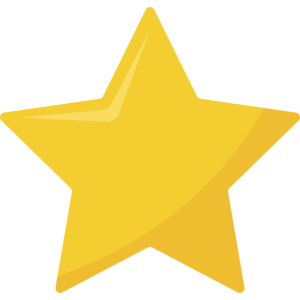
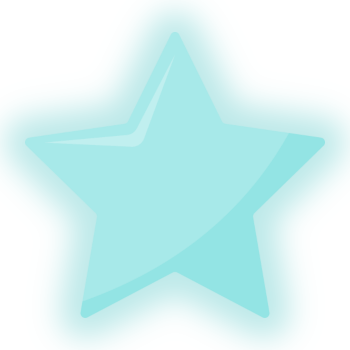
star particles effect

diff --git a/src/Game/js/objects/BigYarnBall/BigYarnBall.js b/src/Game/js/objects/BigYarnBall/BigYarnBall.js
@@ -2,8 +2,10 @@ import {GameObject} from "../../../../Engine/GameObject/GameObject";
 import {Sprite} from "../../../../Engine/Sprite/Sprite";
 import {getRandom} from "../../utilities/random";
 import { BLUE, getColorSrc } from "../YarnBall/YarnBall";
-import {Paw} from "../../scenes/CoreScene";
+import {Paw, ScoreBar} from "../../scenes/CoreScene";
 import { gc } from "../../game_config";
+import {StarParticle} from "../StarParticle/StarParticle";
+import {engineVisual} from "../../../../Engine/VisualRender/VisualRenderComponent";
 
 const Z_INDEX = 40;
 
@@ -36,6 +38,8 @@ export class BigYarnBall extends GameObject {
 
     this.moveTo(coords);
 
+    this.startParticles = [];
+
     this.color = color;
 
     this.sprite[1].setAlpha(0);
@@ -49,7 +53,6 @@ export class BigYarnBall extends GameObject {
   }
 
   spawn(coords, color, size){
-
 
     this.sprite[1].setImageSrc(getColorSrc(color));
 
@@ -78,7 +81,7 @@ export class BigYarnBall extends GameObject {
 
     this.sprite[1].rotate(getRandom(30, 80), GROW_ANIM_TIME);
 
-    this.sprite[0].setAlpha(1, GROW_ANIM_TIME * 0.6);
+    this.sprite[0].setAlpha(0.2, GROW_ANIM_TIME * 0.6);
 
     this.sprite[0].resize(1.2 * mult, GROW_ANIM_TIME * 0.6);
     this.sprite[1].resize(1.2 * mult, GROW_ANIM_TIME * 0.6);
@@ -92,6 +95,53 @@ export class BigYarnBall extends GameObject {
     }, GROW_ANIM_TIME * 0.6);
 
     Paw.collectBall(coords, BALL_SIZE * mult);
+
+    for (let i = 0; i < size; i++) {
+      this.startParticles.push(new StarParticle({ w: 25 * gc.modifer, h: 25 * gc.modifer }));
+    }
+
+    this.startParticles.forEach(star => {
+
+      const TIME = 800;
+
+      star.init();
+
+      const range = 20 * size * gc.modifer;
+      star.moveTo({
+        x: coords.x + getRandom(-range, range),
+        y: coords.y + getRandom(-range, range),
+      });
+      star.sprite.resize(0.5);
+      star.sprite.setAlpha(0);
+
+      star.sprite.resize(1.5, TIME / 4);
+      star.sprite.setAlpha(1, TIME / 4);
+
+      star.moveTo({
+        x:
+        ScoreBar.getCoords().x +
+        ScoreBar.getProgress() / 100 * ScoreBar.sprite[0].getSize().w -
+        star.sprite.getSize().w,
+        y: ScoreBar.getCoords().y + (ScoreBar.sprite[0].getSize().h - star.sprite.getSize().h) / 2
+      }, TIME);
+      star.sprite.rotate(360, TIME, true);
+
+      setTimeout(() => {
+        star.sprite.resize(0.5, TIME / 4);
+        star.sprite.setAlpha(0, TIME / 4);
+      }, TIME * 0.75);
+
+      setTimeout(() => {
+        star.renderClear();
+      }, TIME);
+
+    });
+
+    setTimeout(() => {
+      ScoreBar.addProgress(size);
+      this.startParticles = [];
+    }, 700);
+
   }
 
   clear(){

diff --git a/src/Game/js/objects/StarParticle/StarParticle.js b/src/Game/js/objects/StarParticle/StarParticle.js
@@ -1,0 +1,31 @@
+import { GameObject } from "../../../../Engine/GameObject/GameObject";
+import { Sprite } from "../../../../Engine/Sprite/Sprite";
+
+const Z_INDEX = 99;
+
+export class StarParticle extends GameObject {
+  constructor(
+    size = { w: 50, h: 50 },
+    coords = { x: 0, y: 0 }
+  ) {
+    super();
+
+    this.sprite = new Sprite(
+      '../../../img/star/star_yellow.png',
+      {x: 0, y: 0},
+      {w: 350, h: 350},
+      size
+    );
+
+    this.moveTo(coords);
+
+    this.setInit(() => {
+      this.render();
+      this.setRenderIndex(Z_INDEX);
+    });
+  }
+
+  tick() {
+    super.tick();
+  }
+}

diff --git a/src/Game/js/ui/ScoreProgressBar/ScoreProgressBar.js b/src/Game/js/ui/ScoreProgressBar/ScoreProgressBar.js
@@ -44,8 +44,11 @@ export class ScoreProgressBar extends GameObject {
     });
   }
 
-  addProgress(val){
+  getProgress(){
+    return this._progress;
+  }
 
+  addProgress(val){
     if (this._progress < 100) {
 
       const time = 400;
@@ -65,7 +68,6 @@ export class ScoreProgressBar extends GameObject {
           y: 0
         }, time
       );
-
     }
   }
 

diff --git a/src/Game/js/objects/Grid/Grid.js b/src/Game/js/objects/Grid/Grid.js
@@ -319,7 +319,6 @@ export class Grid extends GameObject {
       //console.log(this.selection.size);
 
       animation && ScratchCatButtonObj.addProgress(this.selection.size * 2);
-      animation && ScoreBar.addProgress(this.selection.size);
 
       const clearedBalls = [...this.selection];
       this.selection = new Set();
